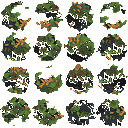
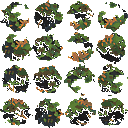
Tree meshes face outward and conifers keep their tiers: bark tubes wind their faces out (they were inside out, showing the far wall and a misread texture); a conifer is tiers of nearly level sprays, strips cut from the sprite's own tiers with the branch's root at the trunk, rolled between flat and s

diff --git a/src/WorldRpg.Rulesets.Daggerfall/World/DaggerfallTreeMesh.cs b/src/WorldRpg.Rulesets.Daggerfall/World/DaggerfallTreeMesh.cs
@@ -7,7 +7,7 @@ namespace WorldRpg.Rulesets.Daggerfall.World;
 /// <summary>
 /// A tree grown in the round from a flora sprite's measures (<see cref="DaggerfallTreeArt"/>): a trunk and limbs as low-sided
 /// tubes wearing bark, and leaf cards wearing pieces of the sprite's own painted crown. A conifer rings its trunk to the top
-/// with whorls of drooping branches, shorter toward the tip, each carrying cards laid along it; a broadleaf's trunk forks
+/// with tiers of drooping sprays, shorter toward the tip, each a strip of the sprite's own tier; a broadleaf's trunk forks
 /// into limbs and twigs whose ends carry the cards in a rounded crown. Bark holds still in the wind (vertex alpha 0) and
 /// the cards flutter, more the farther out they stand. Seeded, so a seed always grows the same tree.
 /// </summary>
@@ -29,7 +29,8 @@ internal static class DaggerfallTreeMesh
         float radius = art.CrownRadius * s, trunk = art.TrunkRadius * s, card = art.CardSize * s;
         List<Limb> limbs = [];
         List<(Vector3 At, Vector3 Along, float Size, float Sway)> cards = [];
-        if (art.Form == "conifer") Conifer(rng, limbs, cards, foot, top, crownBase, radius, trunk, card);
+        List<(Vector3 Root, Vector3 Out, Vector3 Up, float Length, float Width)> sprays = [];
+        if (art.Form == "conifer") Conifer(rng, limbs, sprays, foot, top, crownBase, radius, trunk, card);
         else Broadleaf(rng, limbs, cards, foot, top, crownBase, radius, trunk, card);
 
         List<Vector3> positions = [], normals = [];
@@ -41,53 +42,50 @@ internal static class DaggerfallTreeMesh
         Vector3 centre = new(0, (crownBase + top) / 2, 0);
         foreach ((Vector3 at, Vector3 along, float size, float sway) in cards)
             Card(rng, at, along, size, sway, centre, art.LeafCells, positions, normals, uvs, colours, indices);
+        foreach ((Vector3 root, Vector3 out_, Vector3 up, float length, float width) in sprays)
+            Spray(rng, root, out_, up, length, width, art.LeafCells, positions, normals, uvs, colours, indices);
         return new MeshResourceCreateRequest(positions.ToArray(), normals.ToArray(), uvs.ToArray(), colours.ToArray(), indices.ToArray(),
             new MeshGroup[] { new(0, 0, barkCount), new(1, barkCount, (uint)indices.Count - barkCount) },
             new MeshMaterialBinding[] { new(0, bark), new(1, leaves) }, ReadOnlyMemory<Vector4>.Empty);
     }
 
-    /// <summary>A trunk to the tip, ringed by whorls of drooping branches that shorten toward it, each carrying cards along it.</summary>
-    private static void Conifer(Random rng, List<Limb> limbs, List<(Vector3, Vector3, float, float)> cards, float foot, float top, float crownBase,
-        float radius, float trunk, float card)
+    /// <summary>A trunk to the tip, ringed by tiers of drooping sprays that shorten toward it.</summary>
+    private static void Conifer(Random rng, List<Limb> limbs, List<(Vector3 Root, Vector3 Out, Vector3 Up, float Length, float Width)> sprays,
+        float foot, float top, float crownBase, float radius, float trunk, float card)
     {
         Limb stem = Grow(rng, new Vector3(0, foot - (Sink * (top - foot)), 0), Lean(rng, .03f), top - foot, trunk, .25f, 6, .04f, 0, TrunkSides);
         limbs.Add(stem);
-        int whorls = 7;
-        float azimuth = (float)(rng.NextDouble() * MathF.Tau);
-        for (int w = 0; w < whorls; w++)
-        {
-            float t = (crownBase - foot + ((top - crownBase) * (w + .3f) / whorls)) / (top - foot);
-            (Vector3 at, _, float r) = At(stem, t);
-            float share = 1 - ((at.Y - crownBase) / (top - crownBase));
-            int count = 4 + rng.Next(2);
-            for (int k = 0; k < count; k++)
-            {
-                azimuth += (MathF.Tau / count) + (float)((rng.NextDouble() - .5) * .6);
-                // Inside the tier's cards, which carry the branch's look; the limb only shows through their gaps.
-                float length = radius * (.2f + (.55f * share)) * (float)(.85 + (rng.NextDouble() * .3));
-                Vector3 out_ = Vector3.Normalize(new Vector3(MathF.Cos(azimuth), -.15f + (float)(rng.NextDouble() * .25), MathF.Sin(azimuth)));
-                limbs.Add(Grow(rng, at, out_, length, r * .22f, .3f, 2, .08f, -.12f, LimbSides));
-            }
-        }
-
-        // The cards lie in tiers on a cone, each tier drooping from its whorl, so the crown keeps the sprite's stacked shape.
-        int tiers = whorls, perTier = CardCount(radius, top - crownBase, card) / tiers;
+        // No limbs: each spray is a painted branch, root at the trunk.
+        // Each tier is a ring of sprays from the trunk, drooping outward, each a strip of the sprite's own tier with its
+        // branch's root at the trunk. Each is rolled from lying flat toward standing, so from the side some face the eye
+        // and some lie edge-on, and the crown keeps the sprite's stacked, gapped tiers.
+        int tiers = 8;
         for (int w = 0; w < tiers; w++)
         {
-            float y = crownBase + ((top - crownBase) * (w + .5f) / tiers);
+            float y = crownBase + ((top - crownBase) * (w + .35f) / tiers);
             float share = 1 - ((y - crownBase) / (top - crownBase));
-            float reach = radius * (.2f + (.85f * share));
-            int count = Math.Max(3, (int)(perTier * (.3f + share)));
+            float reach = radius * (.25f + (.85f * share));
+            // An outer ring and, half as many, an inner one, shorter and higher, filling the tier toward the trunk.
+            int outer = 13 + rng.Next(4), count = outer + (outer / 2);
+            float turn = (float)(rng.NextDouble() * MathF.Tau);
             for (int c = 0; c < count; c++)
             {
-                float a = (float)(rng.NextDouble() * MathF.Tau), out_ = reach * MathF.Sqrt(.35f + (.65f * (float)rng.NextDouble()));
-                Vector3 at = new(MathF.Cos(a) * out_, y - (out_ / Math.Max(reach, 1e-3f) * (top - crownBase) / tiers * .5f), MathF.Sin(a) * out_);
-                Vector3 outward = Vector3.Normalize(new Vector3(MathF.Cos(a), .2f, MathF.Sin(a)));
-                cards.Add((at, outward, card * (float)(.85 + (rng.NextDouble() * .3)), .3f + (.6f * out_ / Math.Max(reach, 1e-3f))));
+                bool inner = c >= outer;
+                float a = turn + (MathF.Tau * (inner ? c - outer + .5f : c) / (inner ? outer / 2 : outer)) + (float)((rng.NextDouble() - .5) * .4);
+                // Nearly level, as the sprite's tiers stand, dipping a little toward the tip.
+                Vector3 radial = Vector3.Normalize(new Vector3(MathF.Cos(a), -.06f - (float)(rng.NextDouble() * .14), MathF.Sin(a)));
+                Vector3 tangent = new(-MathF.Sin(a), 0, MathF.Cos(a));
+                float roll = (10 + (float)(rng.NextDouble() * 30)) * MathF.PI / 180;
+                Vector3 up = Vector3.Normalize((tangent * MathF.Cos(roll)) + (Vector3.UnitY * MathF.Sin(roll)));
+                up = Vector3.Normalize(up - (radial * Vector3.Dot(up, radial)));
+                float length = reach * (inner ? .6f : 1) * (float)(.95 + (rng.NextDouble() * .2));
+                sprays.Add((new Vector3(0, y + (float)((rng.NextDouble() - .5) * .2 * (top - crownBase) / tiers), 0) + (radial * trunk), radial, up,
+                    length, Math.Max(card, length / 2)));
             }
         }
 
-        cards.Add((new Vector3(stem.Points[^1].X, top - (card * .35f), stem.Points[^1].Z), Vector3.UnitY, card * .7f, .6f));
+        // A last spray stands at the tip.
+        sprays.Add((new Vector3(0, top - (card * 1.5f), 0), Vector3.UnitY, Vector3.UnitX, card * 2, card));
     }
 
     /// <summary>A trunk forking below the crown into limbs, each into twigs, their ends carrying the crown's cards.</summary>
@@ -208,7 +206,8 @@ internal static class DaggerfallTreeMesh
         for (int j = 0; j < sides; j++)
         {
             uint a = first + (uint)((i * (sides + 1)) + j), b = first + (uint)(((i + 1) * (sides + 1)) + j);
-            indices.AddRange([a, b, b + 1, a, b + 1, a + 1]);
+            // Wound so each face's front looks out of the tube: around the ring runs from u toward v, a turn the other way about the axis.
+            indices.AddRange([a, b + 1, b, a, a + 1, b + 1]);
         }
     }
 
@@ -236,6 +235,32 @@ internal static class DaggerfallTreeMesh
         Vector3 halfA = across * size / 2, halfB = length * size / 2;
         foreach ((Vector3 corner, Vector2 uv) in new[] { (middle - halfA - halfB, new Vector2(u0, v1)), (middle + halfA - halfB, new Vector2(u1, v1)),
                      (middle + halfA + halfB, new Vector2(u1, v0)), (middle - halfA + halfB, new Vector2(u0, v0)) })
+        {
+            positions.Add(corner);
+            normals.Add(shade);
+            uvs.Add(uv);
+            colours.Add(new Color(tone, tone, tone, sway));
+        }
+
+        indices.AddRange([first, first + 1, first + 2, first, first + 2, first + 3, first, first + 2, first + 1, first, first + 3, first + 2]);
+    }
+
+    /// <summary>
+    /// A conifer's spray: a strip from <paramref name="root"/> out along <paramref name="out_"/>, <paramref name="width"/>
+    /// across toward <paramref name="up"/>, showing one spray of the atlas with its branch's root at the trunk. Its tip
+    /// flutters and its root holds; both windings, lit as if facing out and up.
+    /// </summary>
+    private static void Spray(Random rng, Vector3 root, Vector3 out_, Vector3 up, float length, float width, int cells,
+        List<Vector3> positions, List<Vector3> normals, List<Vector2> uvs, List<Color> colours, List<uint> indices)
+    {
+        int cell = rng.Next(cells * cells);
+        float u0 = (float)(cell % cells) / cells, v0 = (float)(cell / cells) / cells, u1 = u0 + (1f / cells), v1 = v0 + (1f / cells);
+        Vector3 shade = Vector3.Normalize((out_ * .6f) + (Vector3.UnitY * .6f));
+        float tone = (float)(.88 + (rng.NextDouble() * .12));
+        Vector3 half = up * width / 2, tip = root + (out_ * length);
+        uint first = (uint)positions.Count;
+        foreach ((Vector3 corner, Vector2 uv, float sway) in new[] { (root - half, new Vector2(u0, v1), .1f), (tip - half, new Vector2(u1, v1), .9f),
+                     (tip + half, new Vector2(u1, v0), .9f), (root + half, new Vector2(u0, v0), .1f) })
         {
             positions.Add(corner);
             normals.Add(shade);

diff --git a/authoring/tools/trees/trees.py b/authoring/tools/trees/trees.py
@@ -65,38 +65,55 @@ def piece(m):
     return max(8, int(m["crown_width"] * .2))
 
 
-def leaves(rgba, m):
-    """CELLS x CELLS pieces of the crown, each a window cut to a ragged round edge. The windows richest in foliage (green
-    or blossom, lit) are taken, and the crown's near-black outlines are cut away, so the gaps between leaves show through."""
+def leaves(rgba, m, form):
+    """CELLS x CELLS pieces of the crown, each a window cut to a ragged oval edge. The windows richest in foliage (green
+    or blossom, lit) are taken, and the crown's near-black outlines are cut away, so the gaps between leaves show through.
+    A broadleaf's pieces are square clumps from anywhere in the crown. A conifer's are sprays: strips twice as wide as
+    they are tall, running from the trunk out along one side of a tier, turned so the trunk's end is always on the left."""
     crown = rgba[m["top"]:m["crown"] + 1].copy()
     rgb = crown[..., :3] / 255
     light = rgb @ [.2126, .7152, .0722]
     crown[..., 3] = np.where(light < .09, 0, crown[..., 3])
     solid = crown[..., 3] > SOLID
     foliage = solid & (light > .16) & ((rgb[..., 1] >= rgb[..., 0] * .95) | (rgb[..., 0] > rgb[..., 2] * 1.6) & (light > .3))
-    size = piece(m)
+    width, height = spray(m) if form == "conifer" else (piece(m), piece(m))
+    centre = m["centre"]
     candidates = []
     for _ in range(3000):
-        y = int(rng.integers(0, max(1, crown.shape[0] - size + 1)))
-        x = int(rng.integers(0, max(1, crown.shape[1] - size + 1)))
-        if crown[y:y + size, x:x + size].shape[:2] == (size, size):
-            candidates.append((foliage[y:y + size, x:x + size].mean(), y, x))
-    candidates.sort(reverse=True)
+        y = int(rng.integers(0, max(1, crown.shape[0] - height + 1)))
+        if form == "conifer":
+            right = bool(rng.integers(0, 2))
+            x = centre + int(rng.integers(0, max(1, width // 6))) if right else centre - width - int(rng.integers(0, max(1, width // 6)))
+            flip = not right
+        else:
+            x, flip = int(rng.integers(0, max(1, crown.shape[1] - width + 1))), False
+        if x >= 0 and crown[y:y + height, x:x + width].shape[:2] == (height, width):
+            candidates.append((foliage[y:y + height, x:x + width].mean(), y, x, flip))
+    candidates.sort(key=lambda c: c[0], reverse=True)
     chosen = []
-    for score, y, x in candidates:
+    for score, y, x, flip in candidates:
         # Pieces apart from one another, so the atlas holds the crown's variety rather than one patch many times.
-        if all(abs(y - cy) + abs(x - cx) > size * .35 for cy, cx in chosen):
-            chosen.append((y, x))
+        if all(abs(y - cy) + abs(x - cx) > height * .35 for cy, cx, _ in chosen):
+            chosen.append((y, x, flip))
         if len(chosen) == CELLS * CELLS:
             break
-    atlas = np.zeros((size * CELLS, size * CELLS, 4))
-    for i, (y, x) in enumerate(chosen):
-        window = crown[y:y + size, x:x + size].copy()
-        yy, xx = (np.mgrid[:size, :size] - (size - 1) / 2) / (size / 2)
-        edge = np.hypot(yy, xx) + ndimage.gaussian_filter(rng.random((size, size)), 1.2) * .9 - .45
+    atlas = np.zeros((height * CELLS, width * CELLS, 4))
+    yy, xx = np.mgrid[:height, :width]
+    oval = np.hypot((yy - (height - 1) / 2) / (height / 2), (xx - (width - 1) / 2) / (width / 2))
+    for i, (y, x, flip) in enumerate(chosen):
+        window = crown[y:y + height, x:x + width].copy()
+        if flip:
+            window = window[:, ::-1]
+        edge = oval + ndimage.gaussian_filter(rng.random((height, width)), 1.2) * .9 - .45
         window[..., 3] = np.where(edge < .85, window[..., 3], 0)
-        atlas[(i // CELLS) * size:(i // CELLS + 1) * size, (i % CELLS) * size:(i % CELLS + 1) * size] = window
+        atlas[(i // CELLS) * height:(i // CELLS + 1) * height, (i % CELLS) * width:(i % CELLS + 1) * width] = window
     return Image.fromarray(atlas.astype(np.uint8), "RGBA")
+
+
+def spray(m):
+    """A conifer spray's piece of the crown, in sprite texels: nearly half the crown's width, half as tall."""
+    width = max(12, int(m["crown_width"] * .46))
+    return width, max(6, width // 2)
 
 
 def bark(rgba, m):
@@ -138,10 +155,11 @@ def main():
             "crownBase": round((m["foot"] - m["crown"]) / h, 4),
             "crownRadius": round(m["crown_width"] / 2 / h, 4),
             "trunkRadius": round(m["trunk"] / 2 / h, 4),
-            "cardSize": round(piece(m) / h, 4),
+            # A leaf card's size: a broadleaf card's side, or a conifer spray's height (its width is twice that).
+            "cardSize": round((spray(m)[1] if form == "conifer" else piece(m)) / h, 4),
             # The bark tile's size, as the sprite draws it: across its width, up its height.
             "barkSize": [round(bark_image.width / h, 4), round(bark_image.height / h, 4)],
-            "leaves": publish(f"tree-{archive:03d}-{record:02d}-leaves", leaves(rgba, m)) | {"cells": CELLS},
+            "leaves": publish(f"tree-{archive:03d}-{record:02d}-leaves", leaves(rgba, m, form)) | {"cells": CELLS},
             "bark": publish(f"tree-{archive:03d}-{record:02d}-bark", bark_image),
         }
     payload["artReplacements"]["trees"] = trees

diff --git a/src/WorldRpg.Rulesets.Daggerfall/DaggerfallFloraTuning.cs b/src/WorldRpg.Rulesets.Daggerfall/DaggerfallFloraTuning.cs
@@ -19,11 +19,12 @@ namespace WorldRpg.Rulesets.Daggerfall;
 /// <param name="Fade">How far before its reach a record shrinks away, so the edge never pops.</param>
 /// <param name="SlopeLimitDegrees">The steepest ground anything grows on.</param>
 /// <param name="TreeMeshes">Whether a record with a refreshed tree mesh grows as the mesh rather than its sprite.</param>
-/// <param name="TreeImpostorMetres">How far from the eye a tree mesh gives way to a card the renderer bakes of it.</param>
+/// <param name="TreeImpostorHeights">How far from the eye a tree mesh gives way to a card the renderer bakes of it, in the
+/// tree's own heights: the card holds 64 texels a view, so it should take over only once the tree stands about that tall on screen.</param>
 internal sealed record DaggerfallFloraTuning(float Density, IReadOnlyDictionary<string, float> ClimateDensity, float GrassChance, float DirtChance, float StoneChance, float DesertShare,
-    float ReachPerMetre, float Reach, float Fade, float SlopeLimitDegrees, bool TreeMeshes, float TreeImpostorMetres)
+    float ReachPerMetre, float Reach, float Fade, float SlopeLimitDegrees, bool TreeMeshes, float TreeImpostorHeights)
 {
-    internal static DaggerfallFloraTuning Default { get; } = new(3, new Dictionary<string, float>(), .9f, .2f, .05f, .25f, 400, 3_200, 600, 50, false, 60);
+    internal static DaggerfallFloraTuning Default { get; } = new(3, new Dictionary<string, float>(), .9f, .2f, .05f, .25f, 400, 3_200, 600, 50, false, 12);
 
     internal DaggerfallFloraTuning Validate()
     {
@@ -34,7 +35,7 @@ internal sealed record DaggerfallFloraTuning(float Density, IReadOnlyDictionary<
         if (!float.IsFinite(ReachPerMetre) || ReachPerMetre <= 0 || !float.IsFinite(Reach) || Reach <= 0 || !float.IsFinite(Fade) || Fade < 0 || Fade > Reach)
             throw new ArgumentException("Flora reaches a positive distance and fades within it.");
         if (SlopeLimitDegrees is <= 0 or > 90) throw new ArgumentException("Flora grows on slopes up to some angle of 90 degrees or less.");
-        if (!float.IsFinite(TreeImpostorMetres) || TreeImpostorMetres <= 0) throw new ArgumentException("Tree meshes give way to their cards some distance out.");
+        if (!float.IsFinite(TreeImpostorHeights) || TreeImpostorHeights <= 0) throw new ArgumentException("Tree meshes give way to their cards some distance out.");
         return this;
     }
 
@@ -63,5 +64,5 @@ internal sealed record DaggerfallFloraTuning(float Density, IReadOnlyDictionary<
         e.GetProperty("grassChance").GetSingle(), e.GetProperty("dirtChance").GetSingle(),
         e.GetProperty("stoneChance").GetSingle(), e.GetProperty("desertShare").GetSingle(), e.GetProperty("reachPerMetre").GetSingle(),
         e.GetProperty("reach").GetSingle(), e.GetProperty("fade").GetSingle(), e.GetProperty("slopeLimitDegrees").GetSingle(),
-        e.GetProperty("treeMeshes").GetBoolean(), e.GetProperty("treeImpostorMetres").GetSingle());
+        e.GetProperty("treeMeshes").GetBoolean(), e.GetProperty("treeImpostorHeights").GetSingle());
 }

diff --git a/src/WorldRpg.Rulesets.Daggerfall/World/DaggerfallFloraField.cs b/src/WorldRpg.Rulesets.Daggerfall/World/DaggerfallFloraField.cs
@@ -175,9 +175,9 @@ internal sealed class DaggerfallFloraField : IDisposable
                 // A tree in the round casts its shade; a billboard can cast none.
                 CastsShadows = grown.Mesh,
             });
-            // Past a few dozen metres a tree mesh is a card the renderer bakes of it, as cheap as its sprite.
+            // Far enough out to be small on screen, a tree mesh is a card the renderer bakes of it, as cheap as its sprite.
             if (grown.Mesh) _engine.Vegetation.SetLayerDetail(new VegetationLayerDetailRequest(_field!, layer,
-                new[] { VegetationLod.ImpostorOf(grown.Look, _tuning.TreeImpostorMetres) }, ImpostorBand, ReadOnlyMemory<VegetationThinningPoint>.Empty, 1));
+                new[] { VegetationLod.ImpostorOf(grown.Look, _tuning.TreeImpostorHeights * grown.Height) }, ImpostorBand, ReadOnlyMemory<VegetationThinningPoint>.Empty, 1));
         }
     }
 

diff --git a/docs/exterior-horizon.md b/docs/exterior-horizon.md
@@ -263,7 +263,8 @@ the layers where the art set has them, and the classic's where it doesn't.
   (`DaggerfallTreeMesh`): a procedural trunk and limbs wearing bark cut from the sprite's
   trunk, and leaf cards wearing pieces of its painted crown, laid on a rounded crown for a
   broadleaf and in tiers on a cone for a conifer. Bark bends with the wind; the cards
-  flutter too. Past `treeImpostorMetres` the renderer draws a card it bakes of the mesh, and
+  flutter too. Past `treeImpostorHeights` times its height (where it stands about as tall on screen as
+  the card's 64 texels) the renderer draws a card it bakes of the mesh, and
   a mesh casts shade where a sprite cannot. `authoring/tools/trees/trees.py` measures each
   sprite and cuts its textures. They grow only with flora's `treeMeshes`, off by default
   while their look is worked out; `world.trees mesh` grows them for a run.
